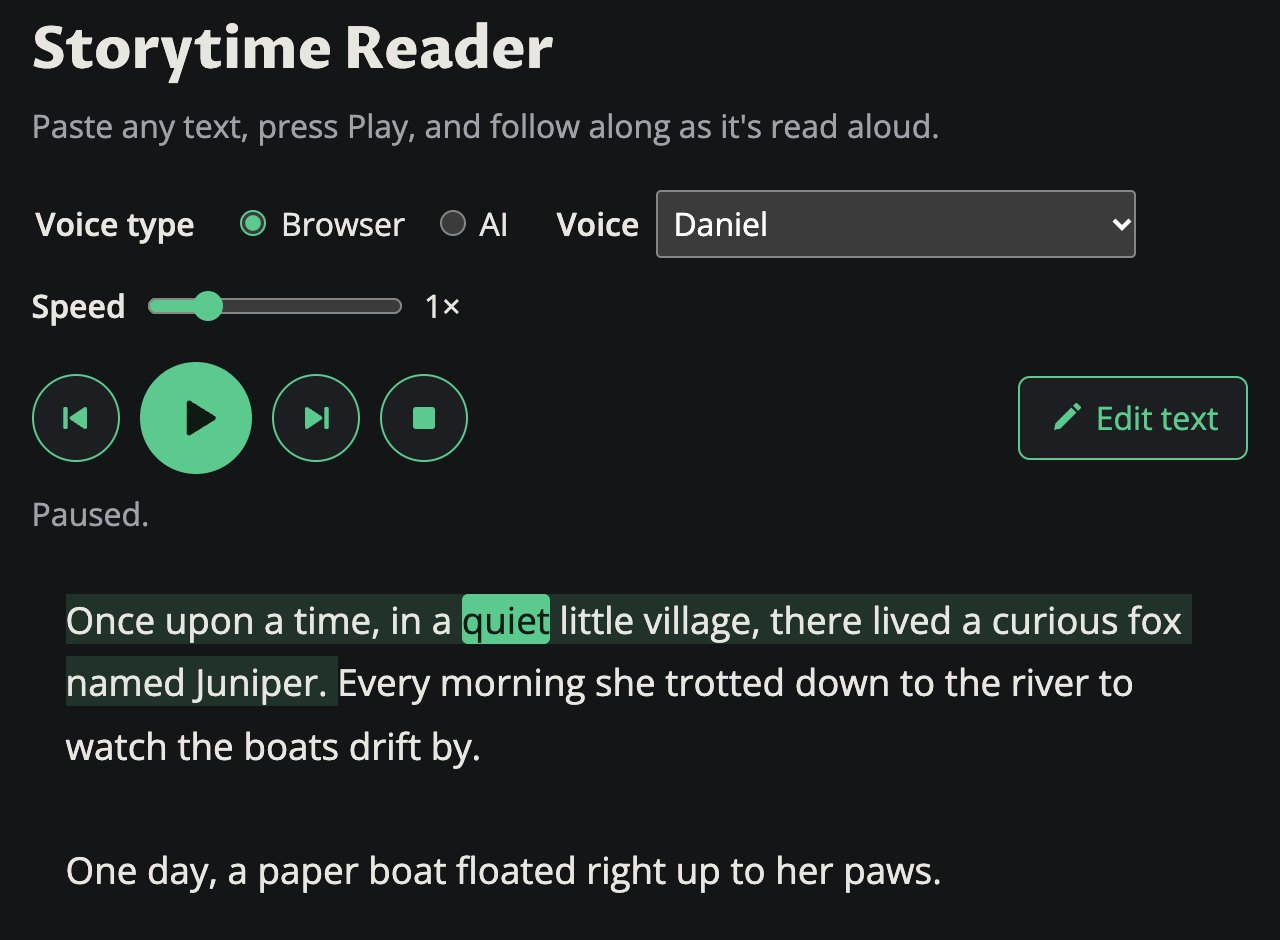
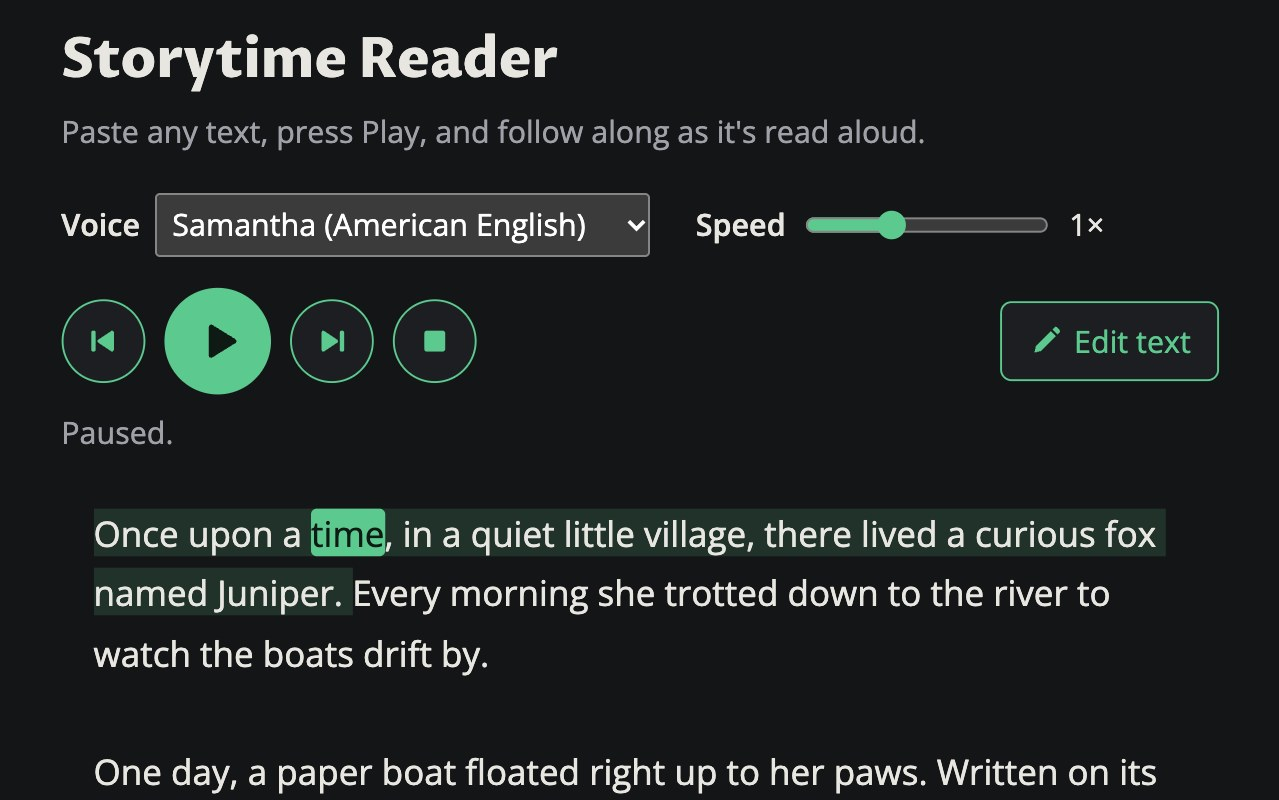
adding new feature: "I Read It Somewhere" section with corresponding CSS and JS files

diff --git a/index.html b/index.html
@@ -102,15 +102,27 @@
       <!--
         Each project is an <article class="project-card">.
         To add a project, copy one whole <article>...</article> block and edit it.
+        The cards sit in a row that scrolls sideways; the arrow buttons are wired up in js/script.js.
       -->
       <section id="projects">
-        <h2>Projects</h2>
-        <div class="project-grid">
+        <div class="section-header">
+          <h2>Projects</h2>
+          <div class="carousel-buttons">
+            <button type="button" class="carousel-button" id="projects-prev" aria-label="Previous project">
+              <i class="fa-solid fa-chevron-left"></i>
+            </button>
+            <button type="button" class="carousel-button" id="projects-next" aria-label="Next project">
+              <i class="fa-solid fa-chevron-right"></i>
+            </button>
+          </div>
+        </div>
+        <!-- tabindex="0" lets keyboard users focus the row and scroll it with the arrow keys -->
+        <div class="project-carousel" id="project-carousel" tabindex="0" aria-label="Projects">
           <article class="project-card">
             <a href="storytime-reader.html">
               <img
                 src="images/storytime-reader.jpg"
-                alt="Storytime Reader highlighting a sentence as it reads a story aloud"
+                alt="Storytime Reader highlighting a sentence and word as it reads a story aloud"
                 class="project-image"
               />
             </a>
@@ -130,6 +142,7 @@
                 API to read text aloud and highlight it as it's spoken.
               </p>
               <ul class="tags">
+                <li class="tag-process">Vibe Coded</li>
                 <li>HTML</li>
                 <li>CSS</li>
                 <li>JavaScript</li>
@@ -165,6 +178,7 @@
                 keep the page working when some data is missing.
               </p>
               <ul class="tags">
+                <li class="tag-process">Vibe Coded</li>
                 <li>HTML</li>
                 <li>CSS</li>
                 <li>JavaScript</li>
@@ -180,19 +194,13 @@
           </article>
 
           <article class="project-card">
-            <!--
-              Once the page works, take a screenshot, save it as
-              images/i-read-it-somewhere.jpg, and delete the comment marks around this block.
-            -->
-            <!--
             <a href="i-read-it-somewhere.html">
               <img
                 src="images/i-read-it-somewhere.jpg"
-                alt="I Read It Somewhere showing a random phrase under a shuffle button"
+                alt="I Read It Somewhere showing a random phrase above the shuffle button"
                 class="project-image"
               />
             </a>
-            -->
             <div class="project-body">
               <h3>I Read It Somewhere</h3>
               <p>
@@ -206,6 +214,7 @@
                 page when a button is clicked.
               </p>
               <ul class="tags">
+                <li class="tag-process">Hand Coded</li>
                 <li>HTML</li>
                 <li>CSS</li>
                 <li>JavaScript</li>
@@ -240,37 +249,90 @@
       <!-- ===== EXPERIENCE ===== -->
       <!--
         Each job, degree or course is an <article class="timeline-item">.
-        Newest goes first. Copy a whole <article>...</article> block to add one.
+        The three main items come first. Copy a whole <article>...</article> block to add one.
+        Add "timeline-item-minor" to the class for smaller, supporting items (hollow dot).
       -->
       <section id="experience">
         <h2>Experience</h2>
         <div class="timeline">
           <article class="timeline-item">
             <h3>Technical Project Specialist</h3>
-            <!-- Placeholder: company name and dates -->
-            <p class="timeline-meta">PatientFi · 2026 – Present</p>
-            <!-- Placeholder: what you do and what you're proud of -->
+            <p class="timeline-meta">PatientFi · Irvine, CA · Jul 2026 – Present</p>
             <p>
-              Lorem ipsum dolor sit amet, consectetur adipiscing elit. Sed do
-              eiusmod tempor incididunt ut labore et dolore magna aliqua.
+              I lead a company-wide program to bring PatientFi's loan servicing
+              in-house, in a role created to run it. I sit with the development
+              team and turn business priorities into scoped, trackable work.
             </p>
+            <ul>
+              <li>
+                Coordinate parallel workstreams: the LoanPro servicing platform,
+                custom integrations on PatientFi's own platform, AI voice/chat and
+                automated collections, AWS-based telephony, credit reporting, and
+                legal &amp; compliance.
+              </li>
+              <li>
+                Manage data-sync dependencies and handoffs across roughly five
+                partner companies and our internal engineering squads.
+              </li>
+              <li>
+                Work with Technical Analysts to scope, prioritize and assign
+                development work, and publish weekly status reports on milestones,
+                risks and blockers.
+              </li>
+            </ul>
           </article>
 
           <article class="timeline-item">
             <h3>Learning Full Stack Engineering</h3>
-            <!-- Placeholder: where you're learning (courses, bootcamp, self-taught) -->
-            <p class="timeline-meta">Codecademy.com · 2026 – Present</p>
+            <p class="timeline-meta">Codecademy Full-Stack Engineer certification · Expected 2027</p>
             <p>
-              Lorem ipsum dolor sit amet, consectetur adipiscing elit. Ut enim
-              ad minim veniam, quis nostrud exercitation.
+              I'm learning to build for the web so I can work closer to the code
+              and understand the engineering side of the projects I run. The
+              projects on this site are what I've built along the way.
             </p>
+            <ul class="progress-list">
+              <li class="done"><i class="fa-solid fa-check"></i> HTML</li>
+              <li class="done"><i class="fa-solid fa-check"></i> CSS</li>
+              <li><i class="fa-solid fa-circle-half-stroke"></i> JavaScript (in progress)</li>
+            </ul>
           </article>
 
           <article class="timeline-item">
-            <h3>Business Administration degree</h3>
-            <!-- Placeholder: school name and graduation year -->
+            <h3>B.S. in Business Administration</h3>
             <p class="timeline-meta">Southern New Hampshire University · 2026</p>
-            <p>Focus on Project Management and Entrepreneurship.</p>
+            <p>
+              Concentrations in Project Management and Entrepreneurship. Graduated
+              Summa Cum Laude with a 3.93 GPA, a member of Delta Mu Delta and on
+              the President's List.
+            </p>
+          </article>
+
+          <article class="timeline-item timeline-item-minor">
+            <h3>Certified ScrumMaster® (CSM)</h3>
+            <p class="timeline-meta">Scrum Alliance · 2026</p>
+          </article>
+
+          <article class="timeline-item timeline-item-minor">
+            <h3>How I got here</h3>
+            <p class="timeline-meta">10+ years in customer-facing roles</p>
+            <ul>
+              <li>
+                <strong>AI Onboarding &amp; Training Specialist</strong>, PatientFi
+                (2025 – 2026): designed the conversational logic for our customer
+                service AI across chat, email and voice, led the team's rollout of
+                Zendesk's AI tools, and wrote the SOPs and training for each one.
+              </li>
+              <li>
+                <strong>Customer Experience Agent</strong>, PatientFi (2024 – 2025):
+                handled patient-financing questions and took on AI tooling work
+                outside the role, which led to my first promotion.
+              </li>
+              <li>
+                <strong>Genius</strong>, Apple (2017 – 2024): troubleshot iPhone and
+                Mac hardware and software, handled complex escalations, and coached
+                teammates at the Genius Bar.
+              </li>
+            </ul>
           </article>
         </div>
 

diff --git a/css/style.css b/css/style.css
@@ -173,14 +173,69 @@ nav {
 }
 
 /* ===== PROJECTS ===== */
-/* A grid of cards: two side by side, wrapping to one column on phones */
-.project-grid {
+/* Heading on the left, arrow buttons on the right */
+.section-header {
+  display: flex;
+  align-items: center;
+  justify-content: space-between;
+  gap: var(--spacing-3);
+  margin-bottom: var(--spacing-2);
+}
+
+.section-header h2 {
+  margin: 0;
+}
+
+.carousel-buttons {
+  display: flex;
+  gap: var(--spacing-1);
+}
+
+.carousel-button {
   display: grid;
-  grid-template-columns: repeat(auto-fit, minmax(300px, 1fr));
+  place-items: center; /* centers the arrow icon */
+  width: 40px;
+  height: 40px;
+  border: 1px solid var(--border-color);
+  border-radius: 50%;
+  background-color: var(--surface-color);
+  color: var(--font-color);
+  cursor: pointer;
+}
+
+.carousel-button:hover:not(:disabled) {
+  border-color: var(--accent-color);
+  color: var(--accent-color);
+}
+
+/* At either end, the button that can't go any further fades out */
+.carousel-button:disabled {
+  opacity: 0.35;
+  cursor: default;
+}
+
+/* A row of cards that scrolls sideways. Part of the next card peeks
+   in from the right so it's clear there's more to see. */
+.project-carousel {
+  display: flex;
   gap: var(--spacing-4);
+  overflow-x: auto;
+  scroll-snap-type: x mandatory; /* stops each scroll with a card lined up on the left */
+  scroll-behavior: smooth;
+  padding-bottom: var(--spacing-3); /* room for the scrollbar */
+  scrollbar-width: thin;
+  scrollbar-color: var(--border-color) transparent;
+}
+
+.project-carousel:focus-visible {
+  outline: 2px solid var(--accent-color);
+  outline-offset: 4px;
+  border-radius: var(--border-radius);
 }
 
 .project-card {
+  flex: 0 0 min(380px, 85%); /* fixed width: 380px, or 85% of the row on phones */
+  scroll-snap-align: start;
   display: flex;
   flex-direction: column;
   overflow: hidden; /* clips the image to the card's rounded corners */
@@ -229,6 +284,13 @@ nav {
   border-radius: 999px; /* fully rounded ends */
   color: var(--muted-color);
   font-size: 0.85rem;
+}
+
+/* How the project was built (Vibe Coded, Hand Coded): green so it stands out */
+.tags .tag-process {
+  border-color: var(--accent-color);
+  color: var(--accent-color);
+  font-weight: 600;
 }
 
 .project-links {
@@ -288,9 +350,55 @@ nav {
   margin: 0;
 }
 
-.timeline-meta {
+.timeline-item .timeline-meta {
   color: var(--muted-color);
   font-size: 0.9rem;
+  margin-bottom: var(--spacing-1);
+}
+
+.timeline-item ul {
+  margin: var(--spacing-1) 0 0;
+  padding-left: var(--spacing-4);
+}
+
+.timeline-item li + li {
+  margin-top: var(--spacing-1);
+}
+
+/* Supporting items: a hollow dot and smaller text */
+.timeline-item-minor::before {
+  background-color: var(--background-color);
+  border: 2px solid var(--accent-color);
+  box-sizing: border-box;
+}
+
+.timeline-item-minor ul {
+  font-size: 0.95rem;
+}
+
+/* Checklist for course progress: green check = done */
+.timeline-item .progress-list {
+  list-style: none;
+  padding-left: 0;
+  display: flex;
+  flex-wrap: wrap;
+  gap: var(--spacing-3);
+}
+
+.progress-list li + li {
+  margin-top: 0;
+}
+
+.progress-list li {
+  color: var(--muted-color);
+}
+
+.progress-list li.done {
+  color: var(--font-color);
+}
+
+.progress-list li.done i {
+  color: var(--accent-color);
 }
 
 /* ===== CONTACT ===== */

diff --git a/js/script.js b/js/script.js
@@ -1,5 +1,5 @@
-// script.js — the "Fun fact" counter in the About Me section.
-// It works out how many seconds have passed since START_DATE
+// script.js — the homepage: the "Fun fact" counter and the projects carousel.
+// The counter works out how many seconds have passed since START_DATE
 // and updates the number on the page once every second.
 
 // Change this to the day you started coding (format: "YYYY-MM-DD")
@@ -20,3 +20,38 @@ function updateCounter() {
 
 updateCounter(); // run once right away
 setInterval(updateCounter, 1000); // then again every 1000ms (1 second)
+
+// ---------- Projects carousel ----------
+// The project cards sit in a row that scrolls sideways (see .project-carousel
+// in style.css). The arrow buttons scroll it by one card at a time, and each
+// button turns off when there's nothing more to see in its direction.
+
+const carousel = document.getElementById("project-carousel");
+const prevButton = document.getElementById("projects-prev");
+const nextButton = document.getElementById("projects-next");
+
+// One card's width plus the gap after it
+function cardStep() {
+  const card = carousel.querySelector(".project-card");
+  const gap = parseFloat(getComputedStyle(carousel).columnGap) || 0;
+  return card.offsetWidth + gap;
+}
+
+function updateCarouselButtons() {
+  const maxScroll = carousel.scrollWidth - carousel.clientWidth;
+  // A couple of pixels of slack, since scroll positions aren't always whole numbers
+  prevButton.disabled = carousel.scrollLeft <= 2;
+  nextButton.disabled = carousel.scrollLeft >= maxScroll - 2;
+}
+
+prevButton.addEventListener("click", () => {
+  carousel.scrollBy({ left: -cardStep() });
+});
+
+nextButton.addEventListener("click", () => {
+  carousel.scrollBy({ left: cardStep() });
+});
+
+carousel.addEventListener("scroll", updateCarouselButtons);
+window.addEventListener("resize", updateCarouselButtons);
+updateCarouselButtons(); // set them right on page load
